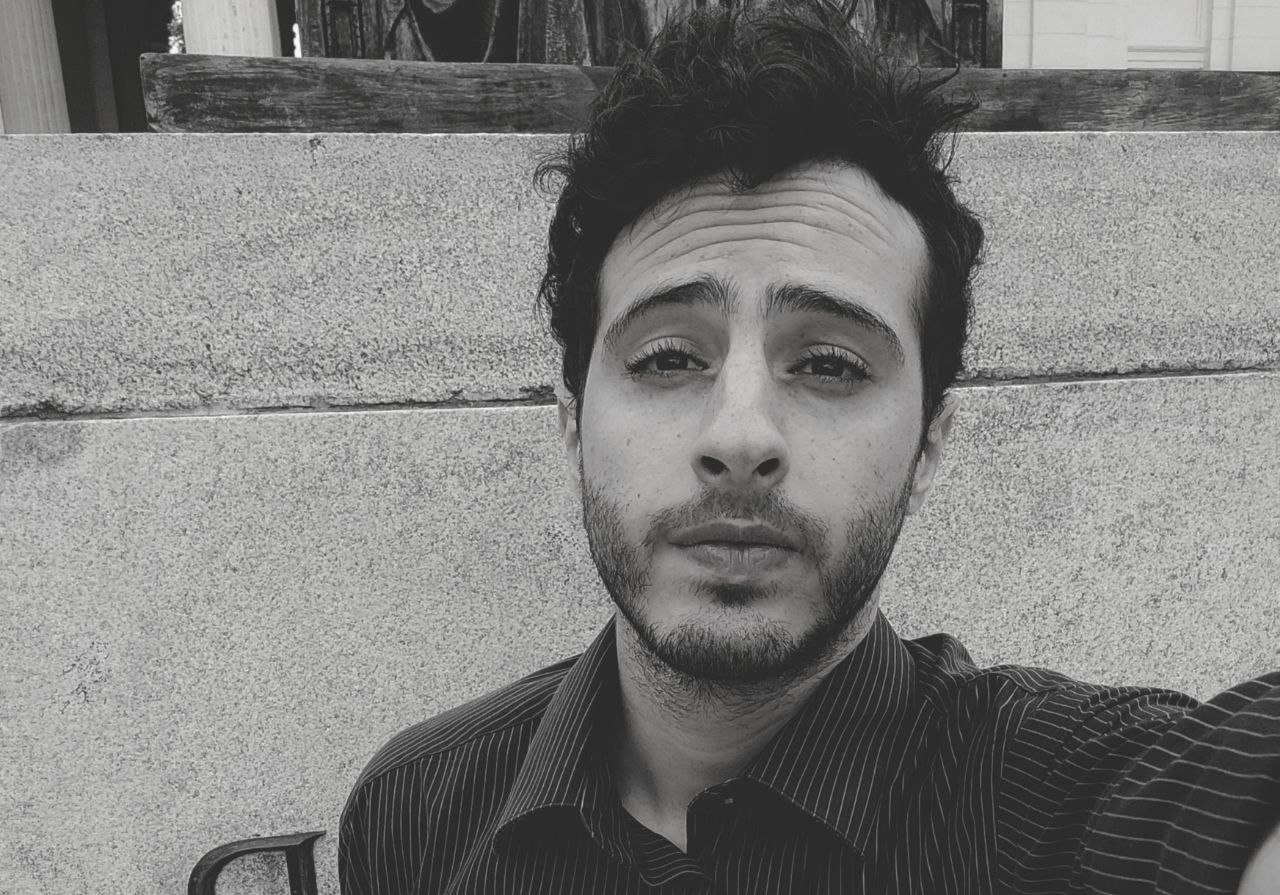
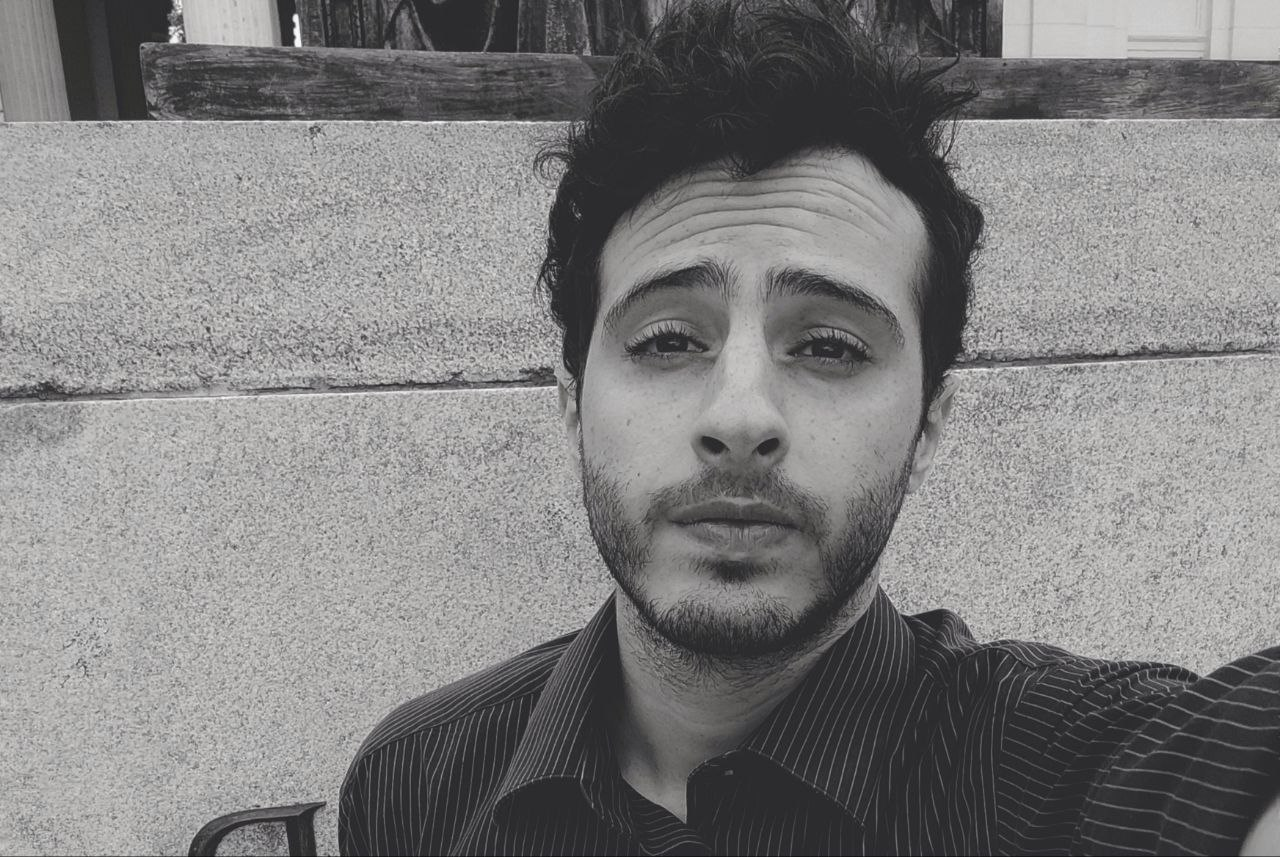
change profilePhoto and someone light colors

diff --git a/src/environment/styles/light.css b/src/environment/styles/light.css
@@ -1,12 +1,14 @@
 :root {
-    --bar-color: rgb(30, 29, 36);
+    --bar-color: rgb(30, 30, 30);
 
-    --line-color: rgba(0, 0, 0, 0.2) --text-color: rgb(44, 44, 44);
+    --line-color: rgba(0, 0, 0, 0.2);
+    --text-color: rgb(44, 44, 44);
 
     --default-highlight-color: rgba(227, 27, 109);
     --secundary-highlight-color: rgb(4, 194, 201);
 
-    --presentation-background-color: rgb(37, 41, 52);
+    --presentation-background-color: rgb(30, 30, 30);
+    /* --presentation-background-color: rgb(37, 41, 52); */
     --presentation-button-highlight-color: rgb(4, 194, 201);
     --presentation-button-border-color: white;
 
@@ -15,9 +17,9 @@
     /* --info-box-background-color: rgb(255, 255, 255, 0.3); */
 
     --progress-bar-background-color: rgba(0, 0, 0, 0.1);
-    --progress-bar-color: rgb(57, 72, 85);
+    --progress-bar-color: rgb(77, 77, 77);
     --progress-bar-highlight-color: rgba(207, 20, 94, 1);
-    --progress-bar-label-color: rgb(107, 121, 132);
+    --progress-bar-label-color: rgb(50, 50, 50);
     --progress-bar-label-highlight-color: rgb(230, 106, 156);
 
     --default-container-background-color: rgb(0, 0, 0, 0.02);

diff --git a/src/environment/styles/dark.css b/src/environment/styles/dark.css
@@ -14,10 +14,10 @@
     --info-box-background-color: rgb(50, 50, 50, 1);
 
     --progress-bar-background-color: rgba(255, 255, 255, 0.1);
-    --progress-bar-color: rgb(240, 240, 240);
+    --progress-bar-color: rgb(220, 220, 220);
     --progress-bar-highlight-color: rgb(4, 194, 201);
-    --progress-bar-label-color: rgb(99, 99, 99);
-    --progress-bar-label-highlight-color: rgb(0, 122, 126);
+    --progress-bar-label-color: rgb(30,30,30);
+    --progress-bar-label-highlight-color: rgb(0, 81, 83);
 
     --default-container-background-color: rgb(255, 255, 255, 0.02);
 

diff --git a/src/components/about/about.jsx b/src/components/about/about.jsx
@@ -17,7 +17,7 @@ function About() {
                 <h1 className='defaultHeader'>About</h1>
                 <div className='profileAbout'>
                     <img className='profileImage'
-                        src={process.env.PUBLIC_URL + "/images/profile.jpg"}
+                        src={process.env.PUBLIC_URL + "/images/profile2.jpg"}
 
                         alt="profile" />
                     <AboutText />

diff --git a/src/components/about/styles/desktop.css b/src/components/about/styles/desktop.css
@@ -20,15 +20,17 @@
     width: 100%;
     /* width: min(800px, 100%); */
     display: flex;
-    flex-direction: row;
+    flex-direction: column;
     place-content: center;
     place-items: center;
     gap: 20px;
 }
 
 .profileImage {
+    /* width: 100%;
+    height: 100%; */
     max-width: 800px;
-    max-height: 250px;
+    /* max-height: 250px; */
 }
 
 .aboutText {

diff --git a/src/components/home/styles/desktop.css b/src/components/home/styles/desktop.css
@@ -3,12 +3,13 @@
     flex-direction: column;
     place-items: center;
     width: 100%;
-    overflow: auto;
+    overflow-y: auto;
     height: 100vh;
+    background-color: var(--bar-color);
 }
 .container{
-    /* padding-top: 35px ; */
     width: 100%;
+    height: 100%;
     display: flex;
     flex-direction: column;
     place-items: center;

diff --git a/src/App.jsx b/src/App.jsx
@@ -1,7 +1,7 @@
 import './App.css';
 import Home from './components/home/home';
 import './environment/styles/light.css'
-import './environment/styles/dark.css'
+// import './environment/styles/dark.css'
 import './styles/style.css'
 
 

diff --git a/src/environment/env.jsx b/src/environment/env.jsx
@@ -2,7 +2,7 @@ const env = {
     barHeight: 35,
     boxProjectMinWidth: 300,
     boxProjectMinWidthMobile: 185,
-    mode: 'dark',
+    mode: 'light',
 }
 
 export default env

diff --git a/src/components/contact/styles/mobile.css b/src/components/contact/styles/mobile.css
@@ -1,0 +1,7 @@
+.contact {
+    background-color: var(--bar-color);
+    padding-block: 100px;
+    width: 100%;
+    display: flex;
+    place-content: center;
+}
